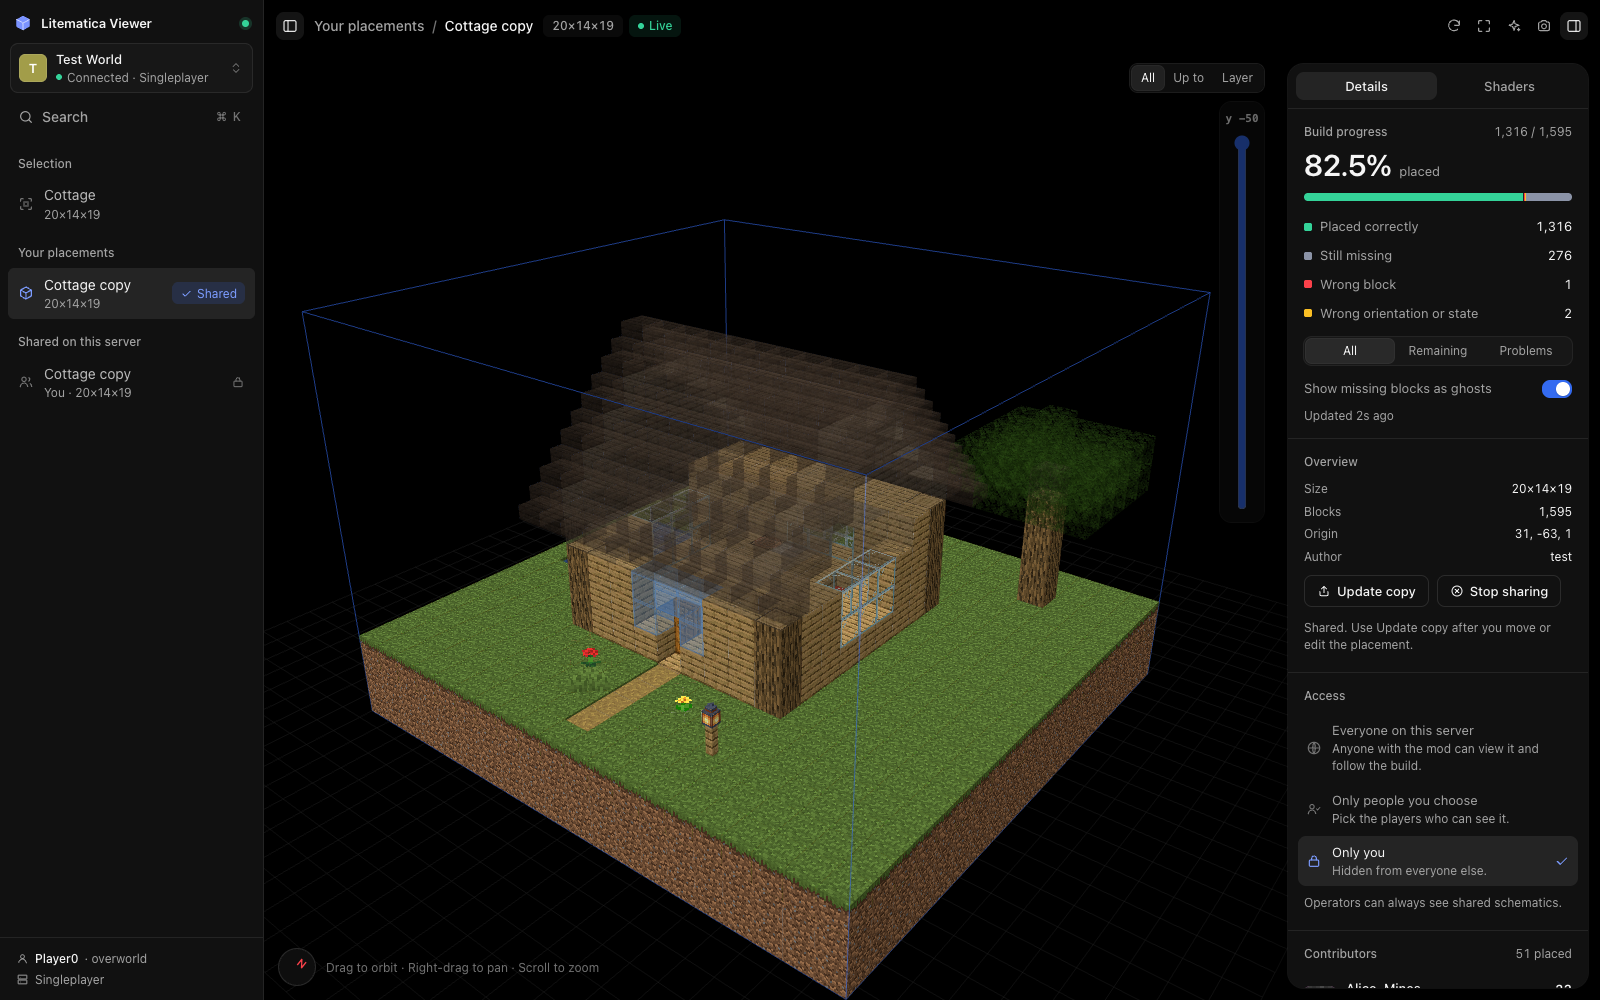
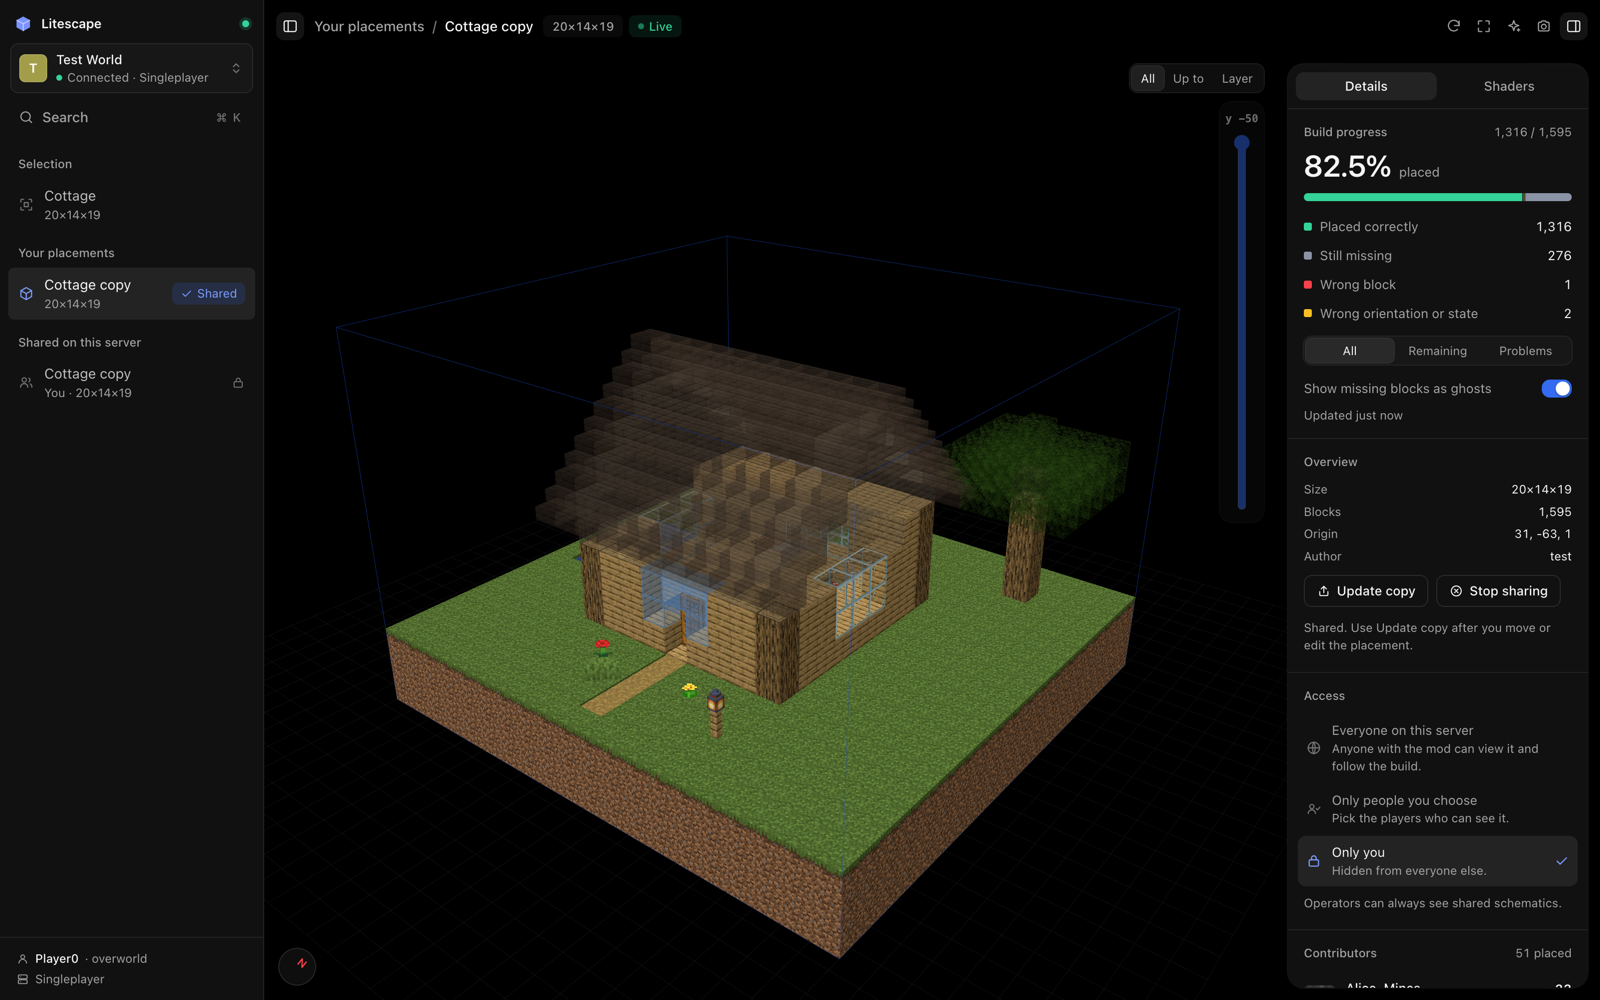
docs: retake the README screenshots so they show the Litescape name (#28)

diff --git a/README.md b/README.md
@@ -11,7 +11,7 @@
 
 <picture>
   <source media="(prefers-color-scheme: dark)" srcset="docs/images/viewer-dark.png">
-  <img alt="A cottage placement 84% built. Placed blocks render normally, the unbuilt roof shows as see-through ghost blocks, and the side panel shows build progress and who can see the shared schematic." src="docs/images/viewer-light.png">
+  <img alt="A cottage placement about 80% built. Placed blocks render normally, the unbuilt roof shows as see-through ghost blocks, and the side panel shows build progress and who can see the shared schematic." src="docs/images/viewer-light.png">
 </picture>
 
 A Fabric mod for Minecraft 26.3 that shows your Litematica selection and schematic placements as 3D models in a browser tab. On a server that also runs the mod, players can share a placement so everyone can watch it get built.
